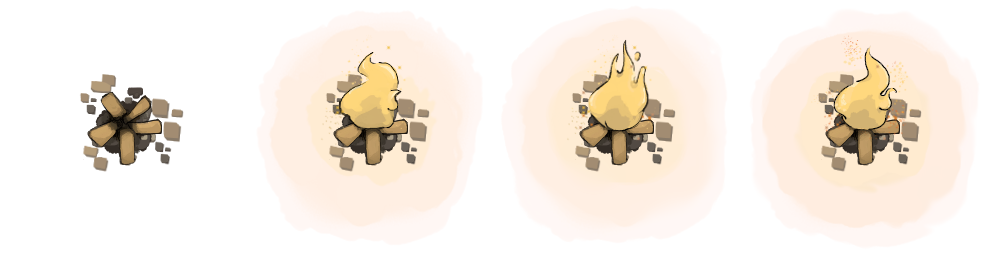
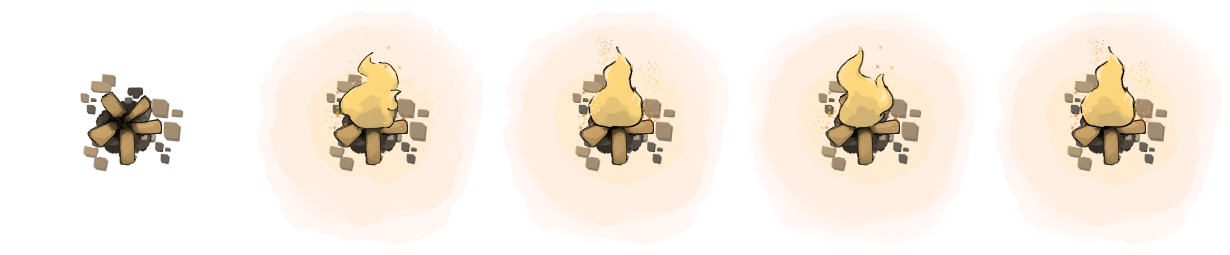
Smoother Animation Cycle

diff --git a/src/client/scenes/mainScene.ts b/src/client/scenes/mainScene.ts
@@ -360,7 +360,7 @@ export default class MainScene extends Phaser.Scene {
 				key: 'campfire_lit',
 				frames: this.anims.generateFrameNames('campfire', {
 					start: 1,
-					end: 3,
+					end: 4,
 				}),
 				frameRate: 5,
 				repeat: -1,
